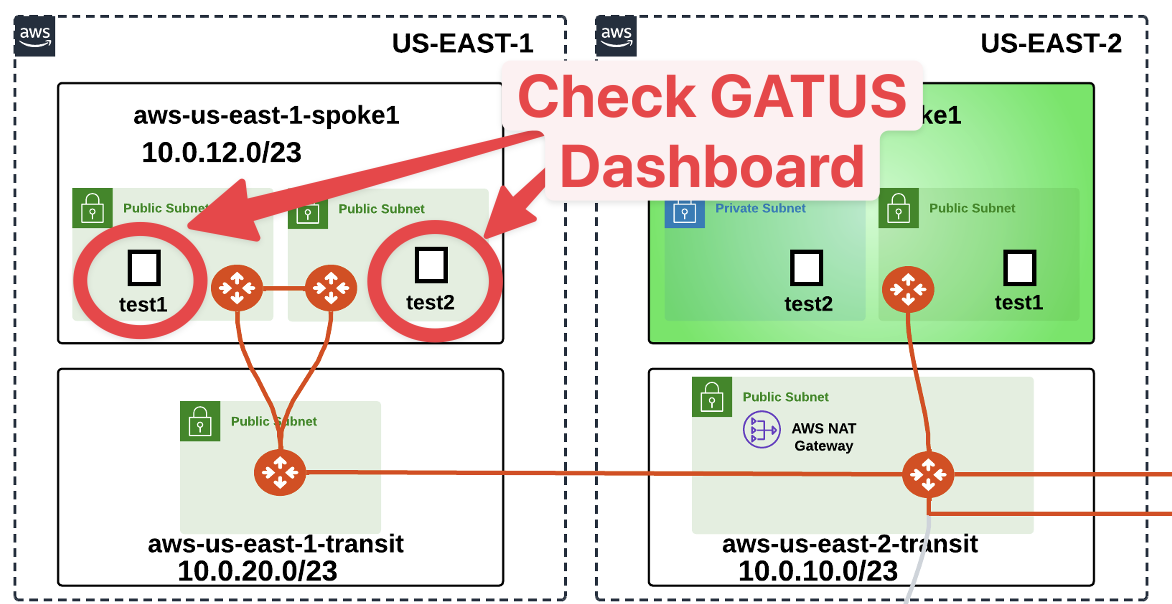
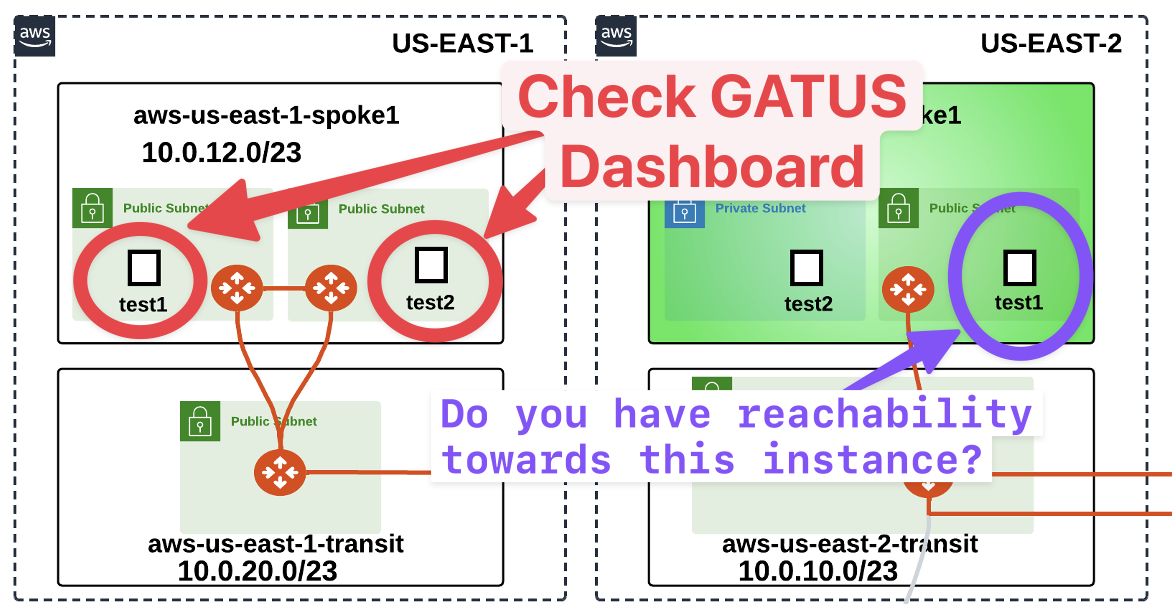
update for pro

Changed region(s): [[0.3686, 0.298, 0.9522, 0.8046]]

diff --git a/ace_pro/docs/lab4.md b/ace_pro/docs/lab4.md
@@ -262,7 +262,7 @@ Test that the EC2 instances in the two subnets deployed in the same VPC, **_aws-
 
 ### 8.1 Connectivity Testing Using the Gatus App
 
-Navigate to your POD Portal, locate the `Gatus widget`, and select both **_aws-us-east-1-spoke1-test1_** and **_aws-us-east-1-spoke1-test2_**. 
+First and foremost, navigate to your POD Portal, locate the `Gatus widget`, and select both **_aws-us-east-1-spoke1-test1_** and **_aws-us-east-1-spoke1-test2_**. 
 
 Insert the credentials available on your POD Portal and then click on **"Sign in"**.
 
@@ -274,9 +274,7 @@ align: center
 Open up the Gatus app from your Portal
 ```
 
-
-Now check if these two instances in the **_aws-us-east-1-spoke1_** VPC have ICMP reachability towards the instance **_aws-us-east-2spoke1-test1_**
-
+- Now check if these two instances in the **_aws-us-east-1-spoke1_** VPC have `ICMP` reachability to the instance **_aws-us-east-2-spoke1-test1_** in the **US-EAST-2** region.
 
 ```{figure} images/lab4-gatus201.png
 ---
@@ -294,11 +292,15 @@ align: center
 Gatus from aws-us-east-1-spoke1-test2
 ```
 
-SSH into **both** EC2 test instances in **_aws-us-east-1-spoke1_** VPC (refer to your Pod assignment). 
+From the outcome above, you can conclude that the <ins>connectivity is broken</ins>!
 
-These test instances are in separate AZs and their default gateways are two different Aviatrix Spoke gateways in their respective AZs.
+### 8.2 Connectivity Testing Using the SSH Client <span style='color:#33ECFF'>(BONUS)</span></summary>
 
-Ping the EC2 test instance (10.0.1.100) in aws-us-east-2-spoke1 VPC.
+If you wish, you can also check the ICMP test using your SSH client.
+
+- SSH into **both** EC2 test instances in the **_aws-us-east-1-spoke1_** VPC (refer to your POD assignment).
+
+Ping the EC2 test instance (10.0.1.100) in **_aws-us-east-1-spoke1_** VPC.
 
 ```{figure} images/lab5-new8.png
 ---
@@ -306,6 +308,31 @@ align: center
 ---
 From US-EAST-1 to US-EAST-2
 ```
+
+```{figure} images/lab4-gatus203.png
+---
+height: 400px
+align: center
+---
+Ping fails from aws-us-east-1-spoke1-test1
+```
+
+```{figure} images/lab4-gatus204.png
+---
+height: 400px
+align: center
+---
+Ping fails from aws-us-east-1-spoke1-test2
+```
+
+```{caution}
+It will fail. Why? Because we didn’t enable segmentation on **aws-us-east-1-transit** and associate **aws-us-east-1-spoke1** with the transit gateway in the appropriate network domain.
+```
+
+
+These test instances are in separate AZs and their default gateways are two different Aviatrix Spoke gateways in their respective AZs.
+
+
 
 It will fail. **WHY?** Because we didn’t enable segmentation on **_aws-us-east-1-transit_** and associate **_aws-us-east-1-spoke1_** with the transit gateway in the appropriate network domain.
  
